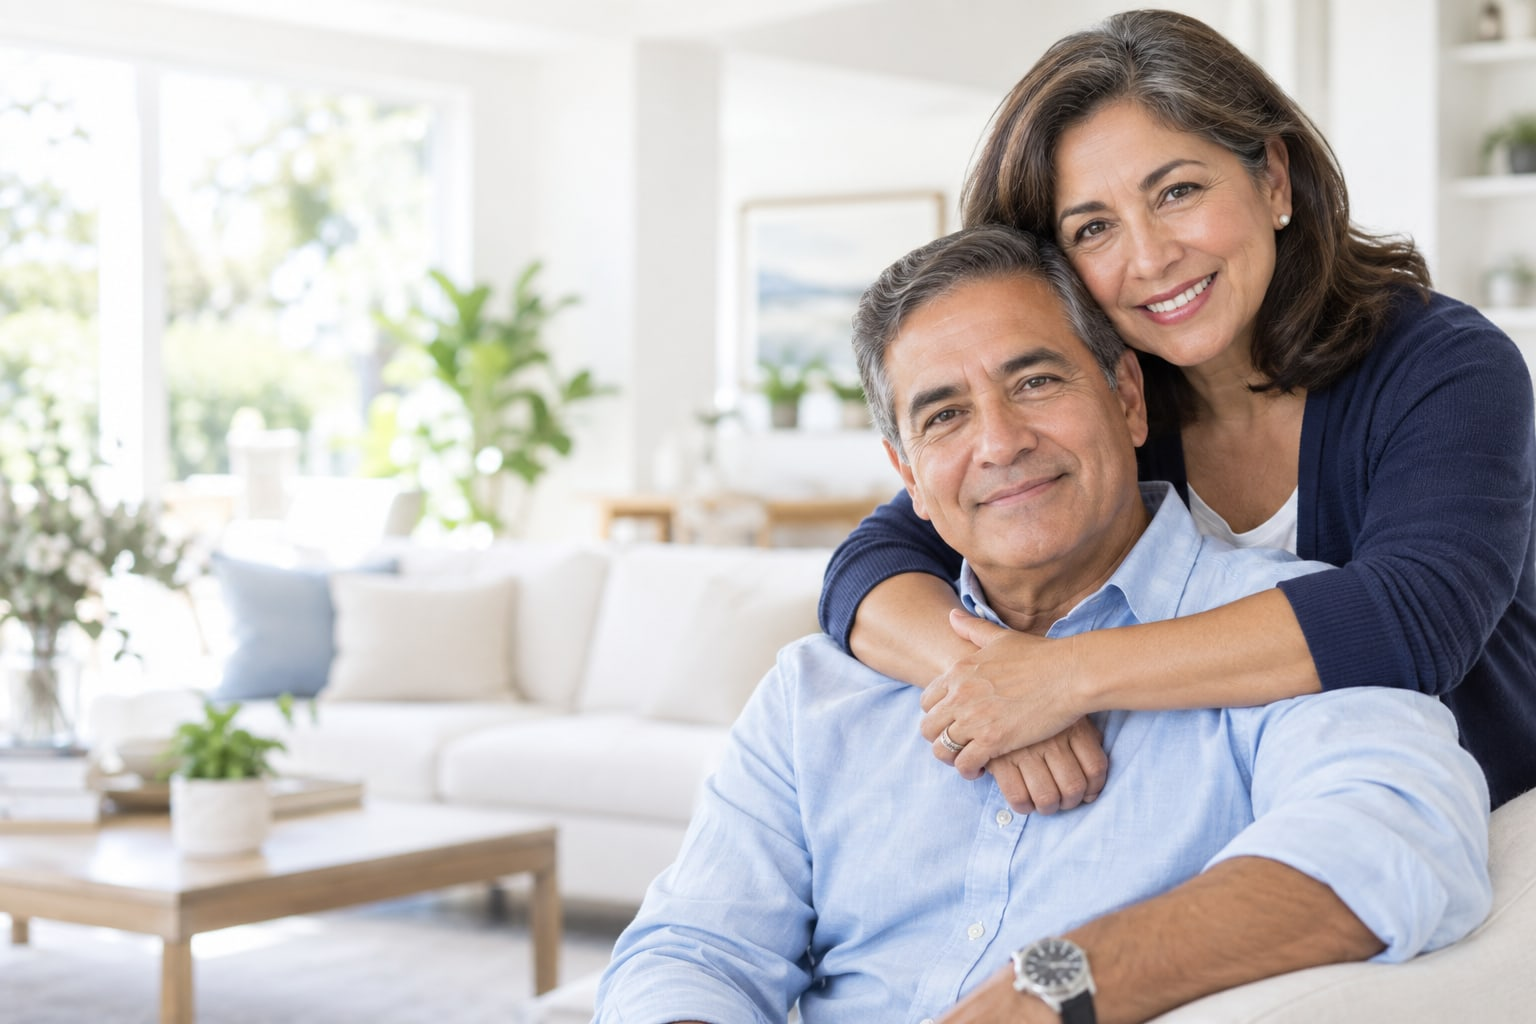
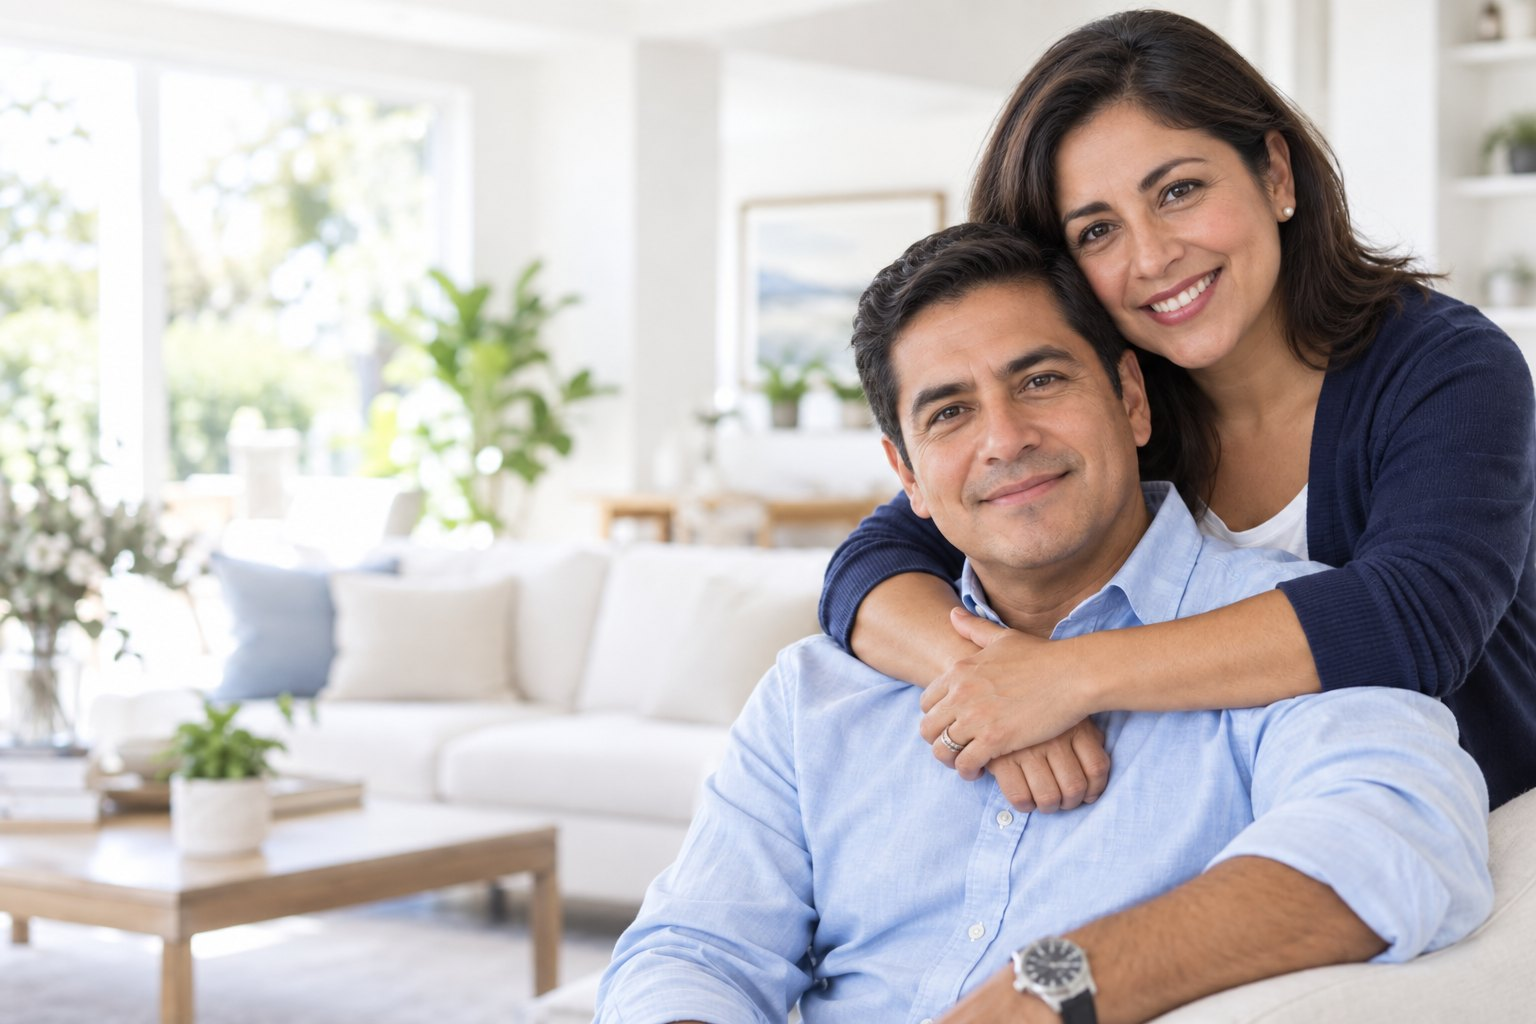
Integrar cotizador al panel azul y actualizar pareja a apariencia de 38 años

diff --git a/site/styles.css b/site/styles.css
@@ -55,3 +55,10 @@
 @media(max-width:1150px) and (min-width:851px){.client-badge{right:0;bottom:12px;min-width:220px;padding:10px 15px}.hero .signature{margin-left:20px;width:220px}.hero h1{max-width:490px}.hero:before{background:linear-gradient(100deg,#002b4a 0%,#034371 28%,rgba(3,63,104,.92) 39%,rgba(0,71,108,.35) 53%,transparent 68%)}}
 @media(min-width:521px) and (max-width:850px){.hero:before{background:linear-gradient(100deg,#002b4a 0%,#034371 30%,rgba(3,63,104,.8) 43%,transparent 72%)}.client-badge{right:0;bottom:8px;min-width:215px;padding:10px 14px}.hero .signature{margin-left:35px}.client-badge strong{font-size:26px}}
 @media(max-width:520px){.hero{background-color:#003b62}.hero:before{background:linear-gradient(135deg,#002b4a,#075486)}.hero-copy:after{z-index:0}.client-badge{z-index:1;right:0;bottom:12px;min-width:215px;padding:9px 14px}.client-badge strong{font-size:25px}.badge-check{width:40px;height:40px;font-size:27px}.hero .signature{margin-left:50px}.hero .lead-card{background:linear-gradient(135deg,#075486,#002f59)}}
+/* El cotizador y el lateral azul forman un solo panel, sin cajas superpuestas. */
+@media(min-width:851px){
+.hero{overflow:hidden;min-height:560px}
+.hero .lead-card{align-self:stretch;display:flex;flex-direction:column;justify-content:center;position:relative;background:#073b60;border:0;border-radius:0;box-shadow:100px 0 0 #073b60;padding:26px}
+.hero .lead-card .cta{flex-shrink:0}
+}
+@media(max-width:850px){.hero .lead-card{background:#003b62;border:0;box-shadow:none}}
